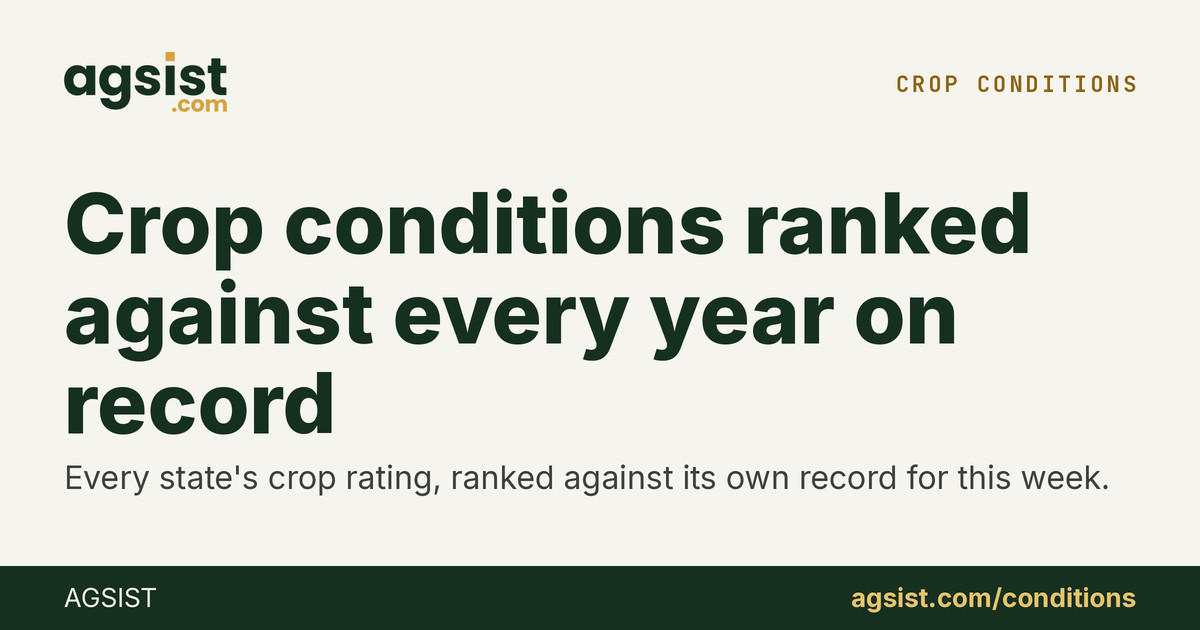
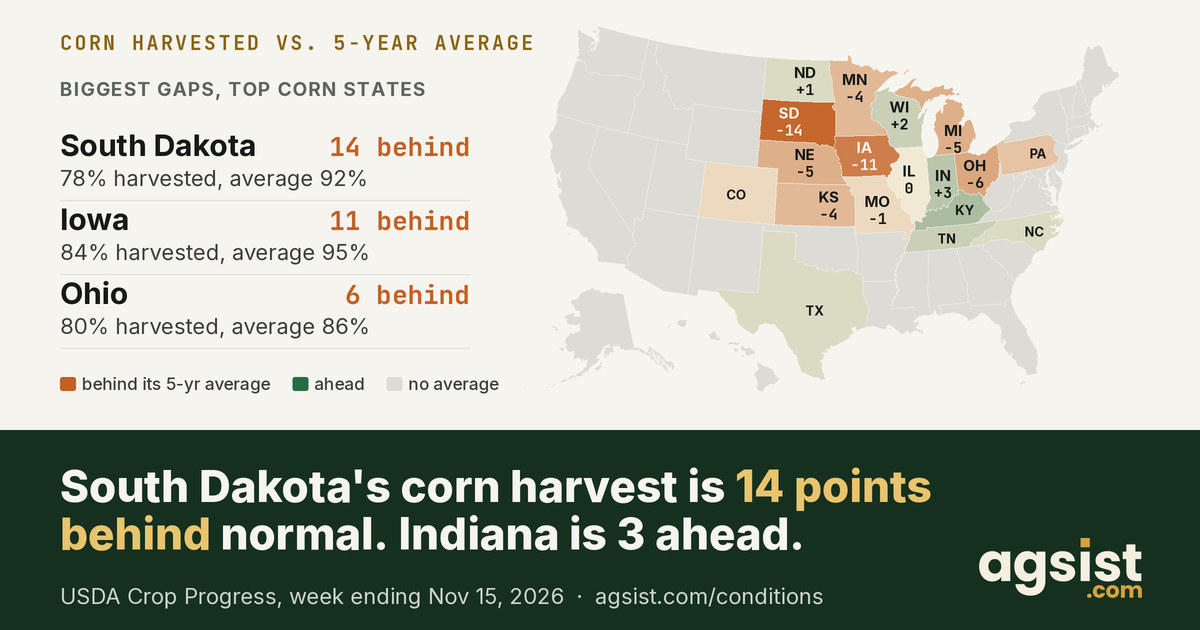
Crop progress: back to the 20:31 run's file and its page, after a NASS outage run wrote nulls
The 21:43 commit (crop_progress.yml run 45270125684) came from a run where every NASS
request timed out. This restores data/crop-progress.json, conditions.html and its link card
from the run before it (8d67d7f6), which were built together.

Claude-Session: https://claude.ai/code/session_0125s99EMM5px9mUZAt3Jks3

diff --git a/conditions.html b/conditions.html
@@ -29,9 +29,9 @@
 <meta name="twitter:title"       content="Corn 88% Harvested, Soybeans 96%: Crop Progress, Week Ending Nov 15">
 <meta name="twitter:description" content="US corn is 88% harvested against a 92% five-year average, soybeans 96%. Corn was 56% good to excellent in the week ending Oct 25.">
   <meta property="og:url" content="https://agsist.com/conditions">
-  <meta property="og:image" content="https://agsist.com/img/og/conditions.jpg?v=539425c0">
-  <meta property="og:image:alt" content="Crop conditions ranked against every year on record. Every state&#x27;s crop rating, ranked against its own record for this week.">
-  <meta name="twitter:image" content="https://agsist.com/img/og/conditions.jpg?v=539425c0">
+  <meta property="og:image" content="https://agsist.com/img/og/conditions.jpg?v=841ddf49">
+  <meta property="og:image:alt" content="A US map shading each state by how far its corn harvest is behind or ahead of its 5-year average, week ending Nov 15, 2026. South Dakota&#x27;s corn harvest is 14 points behind normal. Indiana is 3 ahead.">
+  <meta name="twitter:image" content="https://agsist.com/img/og/conditions.jpg?v=841ddf49">
   <meta property="og:image:width" content="1200">
   <meta property="og:image:height" content="630">
   <meta name="twitter:card" content="summary_large_image">
@@ -312,17 +312,17 @@ html[data-theme="light"] #crop-size #cyn-record [style*="opacity:.85"]{opacity:1
     <p class="cd-kicker page-kicker">USDA Crop Progress &middot; every Monday &middot; ranked against every year USDA rated it</p>
     <h1>Crop conditions ranked against every year on record</h1>
     <p class="cd-sub page-lede"><!--
---><!--SEED:condlede-->Each state&rsquo;s <strong>Good+Excellent share</strong> from USDA&rsquo;s weekly Crop Progress, ranked against <strong>the same week of every year USDA rated it since 2003</strong>. USDA rates crops from late spring into fall; between seasons the last ratings on file are shown.<!--/SEED--><!--
+--><!--SEED:condlede-->Harvest pace first: how far each state&rsquo;s <strong>corn and soybean harvest</strong> is ahead of or behind its <strong>five-year average</strong>, from Monday&rsquo;s USDA Crop Progress. Below that, each state&rsquo;s Good+Excellent share, ranked against the same week of every year USDA rated it since 2003.<!--/SEED--><!--
 --> Further down: <a href="#crop-size">how big the crop is</a>, every 2026 yield forecast side by side.</p>
     <p class="madeby" style="font-size:.8rem;color:var(--text-muted);margin:.3rem 0 .6rem">Data: USDA NASS Crop Progress, out Mondays at 4 p.m. Eastern.</p>
   </header>
 
   <p class="cd-week" id="cd-week"><!--
---><!--SEED:condweek-->No current national rating: the national file is missing.<!--/SEED--><!--
+--><!--SEED:condweek-->No current national rating: the latest national report on file is the week ending Oct 25, 2026.<!--/SEED--><!--
 --></p>
 
   <div id="cd-harvlead"><!--
---><!--SEED:condharvlead--><!--/SEED--><!--
+--><!--SEED:condharvlead--><section class="cd-panel cd-hl" aria-labelledby="cd-hl-t"><div class="cd-panel-hd"><span class="cd-panel-t" id="cd-hl-t">Harvest pace by state vs average</span><span class="cd-fresh">week ending 2026-11-15</span></div><div class="cd-panel-b"><div class="tblscroll"><table class="cd-tbl cd-hl-t"><caption>Percent harvested, week ending Nov 15, 2026, and points ahead (+) or behind (&minus;) the five-year average</caption><tr><th>State</th><th style="text-align:right">Corn</th><th style="text-align:right">Soybeans</th></tr><tr><td>Iowa</td><td class="num">84% <span class="cd-hl-gap lo">&minus;11</span></td><td class="num">96% <span class="cd-hl-gap">&minus;3</span></td></tr><tr><td>Illinois</td><td class="num">96% <span class="cd-hl-gap">+0</span></td><td class="num">99% <span class="cd-hl-gap">+2</span></td></tr><tr><td>Nebraska</td><td class="num">85% <span class="cd-hl-gap">&minus;5</span></td><td class="num">94% <span class="cd-hl-gap">&minus;2</span></td></tr><tr><td>Minnesota</td><td class="num">93% <span class="cd-hl-gap">&minus;4</span></td><td class="num">100% <span class="cd-hl-gap">+0</span></td></tr><tr><td>Indiana</td><td class="num">93% <span class="cd-hl-gap">+3</span></td><td class="num">96% <span class="cd-hl-gap">+1</span></td></tr><tr><td>South Dakota</td><td class="num">78% <span class="cd-hl-gap lo">&minus;14</span></td><td class="num">98% <span class="cd-hl-gap">&minus;1</span></td></tr><tr><td>Ohio</td><td class="num">80% <span class="cd-hl-gap">&minus;6</span></td><td class="num">97% <span class="cd-hl-gap">+2</span></td></tr><tr><td>North Dakota</td><td class="num">89% <span class="cd-hl-gap">+1</span></td><td class="num">100% <span class="cd-hl-gap">+1</span></td></tr><tr><td>Kansas</td><td class="num">92% <span class="cd-hl-gap">&minus;4</span></td><td class="num">87% <span class="cd-hl-gap">&minus;5</span></td></tr><tr><td>Missouri</td><td class="num">93% <span class="cd-hl-gap">&minus;1</span></td><td class="num">91% <span class="cd-hl-gap">+1</span></td></tr><tr><td>Wisconsin</td><td class="num">84% <span class="cd-hl-gap">+2</span></td><td class="num">98% <span class="cd-hl-gap">+2</span></td></tr><tr><td>Michigan</td><td class="num">73% <span class="cd-hl-gap">&minus;5</span></td><td class="num">95% <span class="cd-hl-gap">+4</span></td></tr></table></div><p class="cd-hl-more">Every state USDA reported: <a href="#harvest">full harvest table</a>. A dash means USDA did not report that crop for that state this week.</p></div></section><!--/SEED--><!--
 --></div>
 
   <section class="cd-ver" aria-live="polite">
@@ -334,7 +334,7 @@ html[data-theme="light"] #crop-size #cyn-record [style*="opacity:.85"]{opacity:1
     <div>
       <div class="cd-vword" id="cd-vword"></div>
       <div class="cd-vsent" id="cd-vsent"><!--
---><!--SEED:condvsent-->No current rating: the national file is missing.<!--/SEED--><!--
+--><!--SEED:condvsent-->No current rating: the latest national report on file is the week ending Oct 25, 2026.<!--/SEED--><!--
 --></div>
     </div>
   </section>
@@ -358,7 +358,7 @@ html[data-theme="light"] #crop-size #cyn-record [style*="opacity:.85"]{opacity:1
 --></span></div>
     <div class="cd-panel-b">
       <p class="cd-seed"><!--
---><!--SEED:condstats-->No current national rating: the national file is missing.<!--/SEED--><!--
+--><!--SEED:condstats-->No current national rating: the latest national report on file is the week ending Oct 25, 2026.<!--/SEED--><!--
 --></p>
       <div class="cd-tabs" role="tablist" id="cd-tabs"></div>
       <div class="tblscroll"><table class="cd-tbl" id="cd-table"><!--
@@ -372,11 +372,11 @@ html[data-theme="light"] #crop-size #cyn-record [style*="opacity:.85"]{opacity:1
     <div class="cd-panel-hd"><span class="cd-panel-t" id="cd-h-t">Harvest progress by state</span><span class="cd-fresh" id="cd-h-fresh"></span></div>
     <div class="cd-panel-b">
       <p class="cd-seed" id="cd-h-line"><!--
---><!--SEED:condharvline-->No current harvest numbers: the national file is missing.<!--/SEED--><!--
+--><!--SEED:condharvline-->US, week ending Nov 15, 2026: Corn <strong>88%</strong> harvested vs a 92% five-year average; Soybeans <strong>96%</strong> harvested vs a 95% five-year average. 27 corn states reported this week.<!--/SEED--><!--
 --></p>
       <div class="cd-tabs" role="tablist" id="cd-h-tabs"></div>
       <div class="tblscroll"><table class="cd-tbl" id="cd-h-table"><!--
---><!--SEED:condharvtable--><tr><td style="color:#8a948f">No current harvest numbers: the national file is missing</td></tr><!--/SEED--><!--
+--><!--SEED:condharvtable--><caption>Corn harvested, week ending Nov 15, 2026 &middot; furthest behind first</caption><tr><th>State</th><th style="text-align:right">Harvested</th><th class="cd-wb" style="text-align:right">Week before</th><th style="text-align:right">Last year</th><th style="text-align:right">5-yr avg</th><th style="text-align:right">vs avg</th></tr><tr><td>South Dakota</td><td class="num">78%</td><td class="num cd-wb">68%</td><td class="num">88%</td><td class="num">92%</td><td class="num">&minus;14 pts</td></tr><tr><td>Iowa</td><td class="num">84%</td><td class="num cd-wb">72%</td><td class="num">95%</td><td class="num">95%</td><td class="num">&minus;11 pts</td></tr><tr><td>Ohio</td><td class="num">80%</td><td class="num cd-wb">69%</td><td class="num">92%</td><td class="num">86%</td><td class="num">&minus;6 pts</td></tr><tr><td>Michigan</td><td class="num">73%</td><td class="num cd-wb">61%</td><td class="num">80%</td><td class="num">78%</td><td class="num">&minus;5 pts</td></tr><tr><td>Nebraska</td><td class="num">85%</td><td class="num cd-wb">74%</td><td class="num">73%</td><td class="num">90%</td><td class="num">&minus;5 pts</td></tr><tr><td>Kansas</td><td class="num">92%</td><td class="num cd-wb">88%</td><td class="num">91%</td><td class="num">96%</td><td class="num">&minus;4 pts</td></tr><tr><td>Minnesota</td><td class="num">93%</td><td class="num cd-wb">88%</td><td class="num">96%</td><td class="num">97%</td><td class="num">&minus;4 pts</td></tr><tr><td>Pennsylvania</td><td class="num">70%</td><td class="num cd-wb">67%</td><td class="num">78%</td><td class="num">73%</td><td class="num">&minus;3 pts</td></tr><tr><td>Colorado</td><td class="num">88%</td><td class="num cd-wb">77%</td><td class="num">89%</td><td class="num">89%</td><td class="num">&minus;1 pts</td></tr><tr><td>Missouri</td><td class="num">93%</td><td class="num cd-wb">89%</td><td class="num">90%</td><td class="num">94%</td><td class="num">&minus;1 pts</td></tr><tr><td>Illinois</td><td class="num">96%</td><td class="num cd-wb">93%</td><td class="num">96%</td><td class="num">96%</td><td class="num">+0 pts</td></tr><tr><td>North Carolina</td><td class="num">100%</td><td class="num cd-wb">99%</td><td class="num">95%</td><td class="num">99%</td><td class="num">+1 pts</td></tr><tr><td>North Dakota</td><td class="num">89%</td><td class="num cd-wb">85%</td><td class="num">78%</td><td class="num">88%</td><td class="num">+1 pts</td></tr><tr><td>Texas</td><td class="num">100%</td><td class="num cd-wb">99%</td><td class="num">95%</td><td class="num">99%</td><td class="num">+1 pts</td></tr><tr><td>Tennessee</td><td class="num">100%</td><td class="num cd-wb">100%</td><td class="num">94%</td><td class="num">98%</td><td class="num">+2 pts</td></tr><tr><td>Wisconsin</td><td class="num">84%</td><td class="num cd-wb">72%</td><td class="num">84%</td><td class="num">82%</td><td class="num">+2 pts</td></tr><tr><td>Indiana</td><td class="num">93%</td><td class="num cd-wb">87%</td><td class="num">91%</td><td class="num">90%</td><td class="num">+3 pts</td></tr><tr><td>Kentucky</td><td class="num">99%</td><td class="num cd-wb">96%</td><td class="num">94%</td><td class="num">95%</td><td class="num">+4 pts</td></tr><tr><td>Alabama</td><td class="num">100%</td><td class="num cd-wb">100%</td><td class="num"></td><td class="num"></td><td class="num"></td></tr><tr><td>Maryland</td><td class="num">95%</td><td class="num cd-wb">92%</td><td class="num">94%</td><td class="num"></td><td class="num"></td></tr><tr><td>Montana</td><td class="num">72%</td><td class="num cd-wb">57%</td><td class="num">65%</td><td class="num"></td><td class="num"></td></tr><tr><td>New Jersey</td><td class="num">90%</td><td class="num cd-wb">70%</td><td class="num">85%</td><td class="num"></td><td class="num"></td></tr><tr><td>New Mexico</td><td class="num">55%</td><td class="num cd-wb">48%</td><td class="num">95%</td><td class="num"></td><td class="num"></td></tr><tr><td>New York</td><td class="num">50%</td><td class="num cd-wb">45%</td><td class="num">70%</td><td class="num"></td><td class="num"></td></tr><tr><td>Utah</td><td class="num">65%</td><td class="num cd-wb">48%</td><td class="num">75%</td><td class="num"></td><td class="num"></td></tr><tr><td>West Virginia</td><td class="num">65%</td><td class="num cd-wb">56%</td><td class="num">66%</td><td class="num"></td><td class="num"></td></tr><tr><td>Wyoming</td><td class="num">63%</td><td class="num cd-wb">51%</td><td class="num">76%</td><td class="num"></td><td class="num"></td></tr><!--/SEED--><!--
 --></table></div>
       <p style="font-size:13.4px;color:#8a948f;margin:10px 0 0">Percent of the crop harvested, from USDA&rsquo;s weekly Crop Progress report. Only states USDA reported this week are listed. The five-year average is the one USDA prints in that report for the states it covers; for 2021-2025 USDA filled the October 2025 weeks it did not publish with its own estimates. For other states it is our arithmetic on USDA&rsquo;s weekly series (each of the five prior years read at the same calendar date), which can differ from USDA&rsquo;s by a point and is left blank when a year has no report near that date. A last-year column appears when USDA has a report for the same week a year earlier; it published none in October 2025, during the federal shutdown. Tap a column to sort.</p>
     </div>
